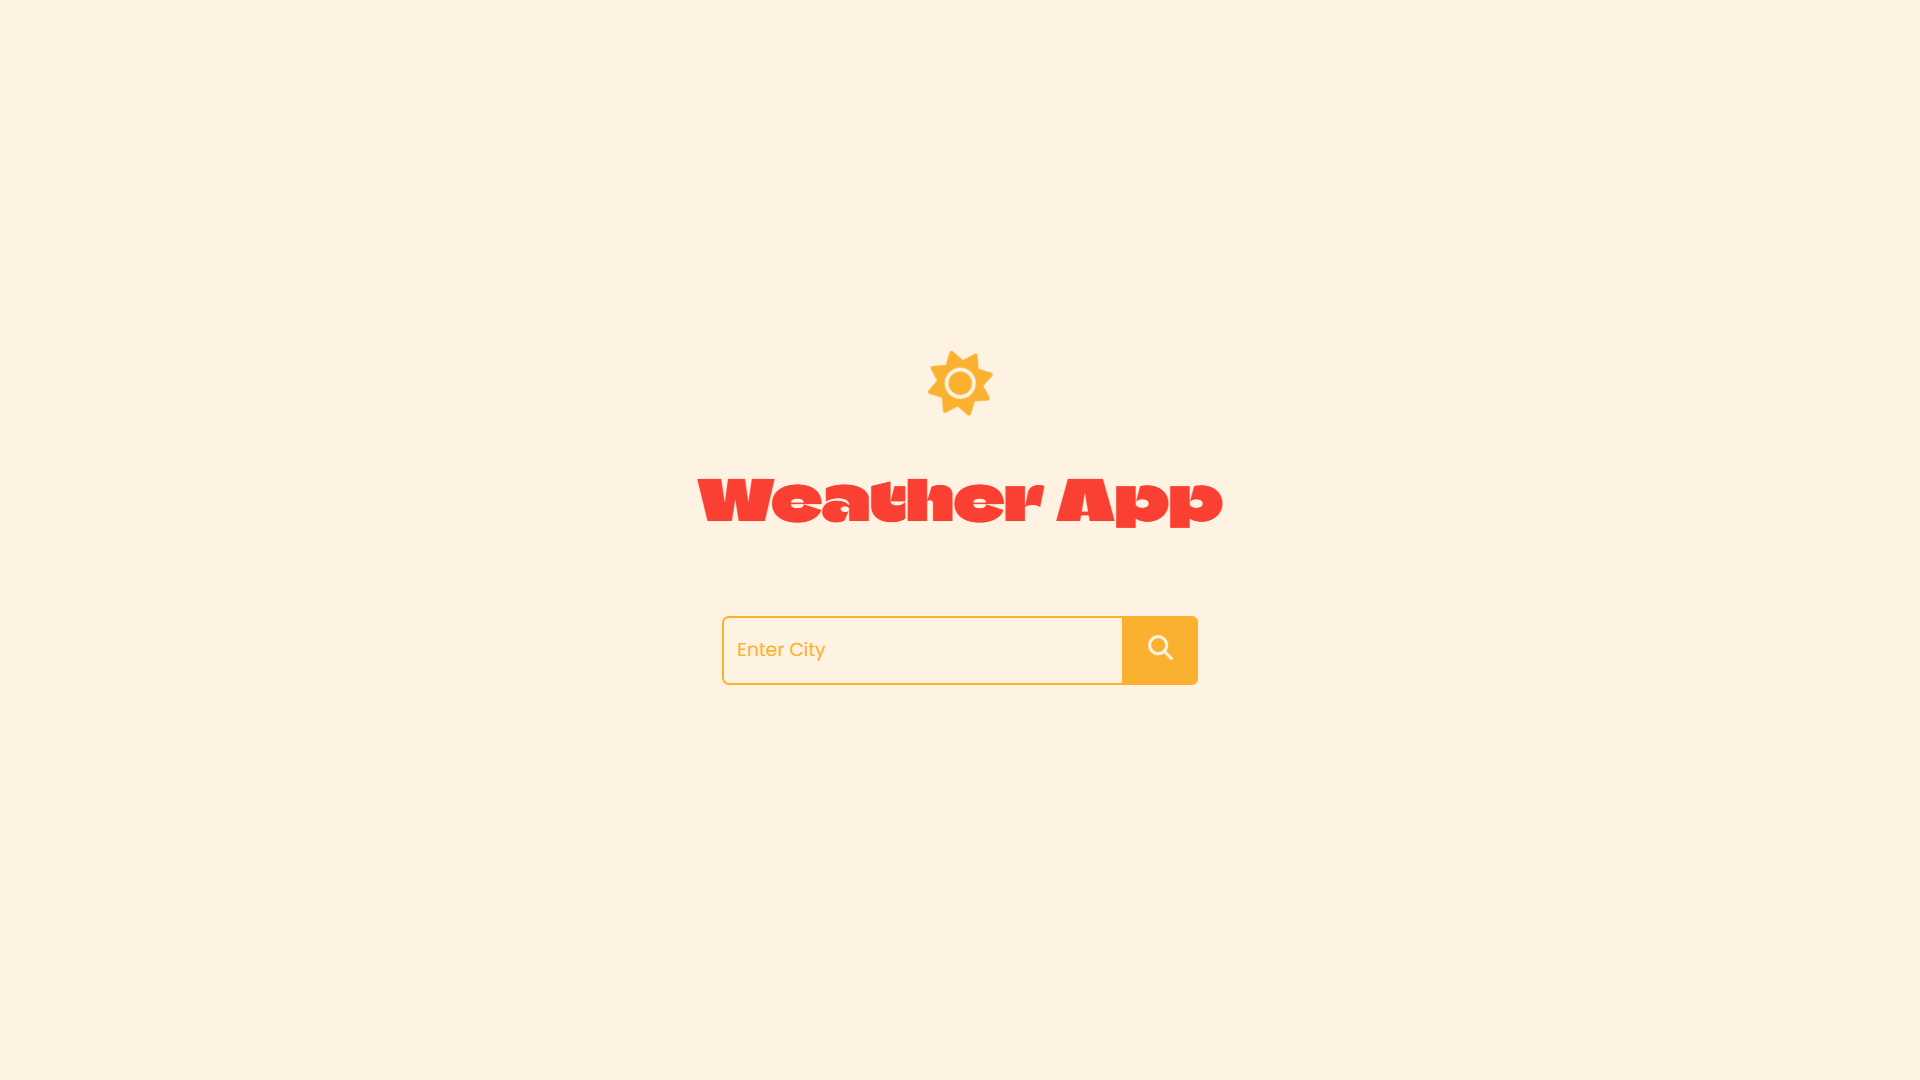
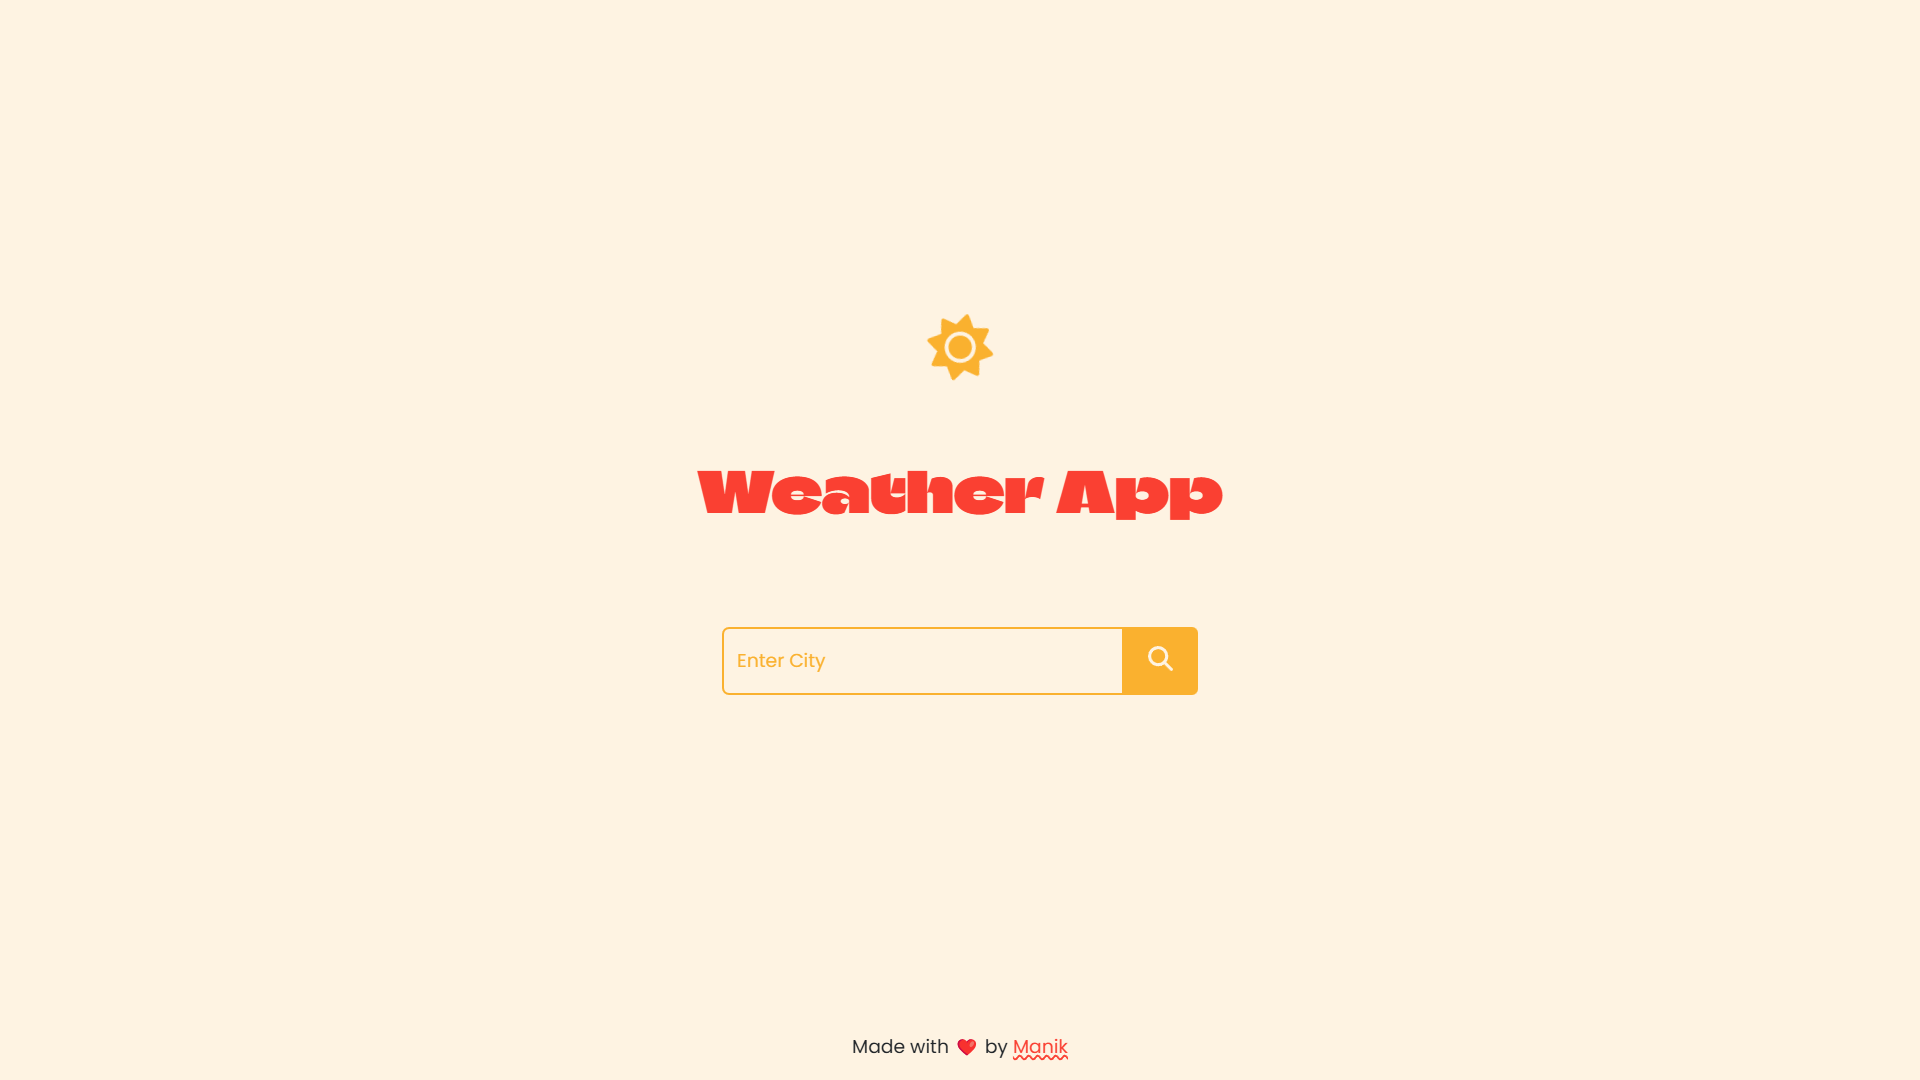
UI enhancement

diff --git a/components/SunriseSunset.jsx b/components/SunriseSunset.jsx
@@ -1,0 +1,224 @@
+import React from "react";
+import { Line } from "react-chartjs-2";
+import {
+  Chart as ChartJS,
+  CategoryScale,
+  LinearScale,
+  PointElement,
+  LineElement,
+  Title,
+  Tooltip,
+  Legend,
+} from "chart.js";
+import ChartAnnotation from "chartjs-plugin-annotation";
+
+ChartJS.register(
+  CategoryScale,
+  LinearScale,
+  PointElement,
+  LineElement,
+  Title,
+  Tooltip,
+  Legend,
+  ChartAnnotation
+);
+
+const SunriseSunset = ({ sunrise, sunset }) => {
+  const parseTimeToHours = (time) => {
+    const [hours, minutes, seconds] = time.split(":").map(Number);
+    return hours + minutes / 60 + seconds / 3600;
+  };
+
+  const sunriseHour = parseTimeToHours(sunrise);
+  const sunsetHour = parseTimeToHours(sunset);
+
+  const hours = [
+    0,
+    sunriseHour,
+    (sunriseHour + sunsetHour) / 2,
+    sunsetHour,
+    24,
+  ];
+
+  const dayNightData = hours.map((hour) => {
+    if (hour > sunriseHour && hour < sunsetHour) {
+      return 1;
+    } else if (hour === sunriseHour || hour === sunsetHour) {
+      return 0;
+    } else {
+      return -1;
+    }
+  });
+
+  const graphColor = "rgba(250, 64, 50, 0.8)";
+  const sunriseSunsetColor = "#fab12f";
+
+  const unifiedData = hours.map((hour) =>
+    hour > sunriseHour && hour < sunsetHour
+      ? 0.5
+      : hour === sunriseHour || hour === sunsetHour
+      ? 0
+      : -0.25
+  );
+
+  const currentTime = new Date();
+  const currentHour = currentTime.getHours() + currentTime.getMinutes() / 60;
+
+  const data = {
+    labels: hours.map((h) => sunrise),
+    datasets: [
+      {
+        label: "Sunlight & Night",
+        data: unifiedData,
+        borderColor: graphColor,
+        backgroundColor: "transparent",
+        fill: true,
+        tension: 0.4,
+        pointRadius: 0,
+      },
+      {
+        label: "Sunrise",
+        data: [null, 0, null, null, null],
+        borderColor: sunriseSunsetColor,
+        backgroundColor: sunriseSunsetColor,
+        pointRadius: 8,
+        pointStyle: "circle",
+        fill: false,
+        showLine: false,
+      },
+      {
+        label: "Sunset",
+        data: [null, null, null, 0, null],
+        borderColor: sunriseSunsetColor,
+        backgroundColor: sunriseSunsetColor,
+        pointRadius: 8,
+        pointStyle: "circle",
+        fill: false,
+        showLine: false,
+      },
+      {
+        label: "Current Time",
+        data: Array(24)
+          .fill(null)
+          .map((_, index) => (index === Math.floor(currentHour) ? 1 : null)),
+        backgroundColor: "red",
+        borderColor: "red",
+        pointRadius: 6,
+        pointStyle: "circle",
+        fill: false,
+        showLine: true,
+        tension: 0.4,
+      },
+    ],
+  };
+
+  const options = {
+    responsive: true,
+    plugins: {
+      legend: { display: false },
+      annotation: {
+        annotations: [
+          {
+            type: "line",
+            scaleID: "y",
+            value: 0,
+            borderColor: "black",
+            borderWidth: 2,
+            label: {
+              display: false,
+            },
+          },
+
+          {
+            type: "box",
+            xMin: sunriseHour,
+            xMax: sunsetHour,
+            backgroundColor: "rgba(255, 255, 0, 0.2)",
+            borderColor: "#fab12f",
+            borderWidth: 1,
+            label: {
+              content: "Day",
+              position: "center",
+              font: {
+                size: 16,
+                weight: "bold",
+              },
+              backgroundColor: "#fab12f",
+              color: "black",
+            },
+          },
+          {
+            type: "label",
+            xValue: sunriseHour,
+            yValue: 0,
+            backgroundColor: "#fab12f",
+            borderRadius: 10,
+            content: `Sunrise: ${sunrise}`,
+            font: {
+              size: 12,
+            },
+            color: "black",
+          },
+          {
+            type: "label",
+            xValue: sunsetHour,
+            yValue: 0,
+            backgroundColor: "orange",
+            borderRadius: 10,
+            content: `Sunset: ${sunset}`,
+            font: {
+              size: 12,
+            },
+            color: "black",
+          },
+        ],
+      },
+    },
+    scales: {
+      x: {
+        ticks: {
+          display: false,
+        },
+        grid: {
+          display: false,
+        },
+        border: {
+          display: false,
+        },
+      },
+      y: {
+        ticks: {
+          display: false,
+        },
+        grid: {
+          display: false,
+        },
+        border: {
+          display: false,
+        },
+      },
+    },
+    elements: {
+      line: {
+        borderWidth: 2,
+      },
+    },
+  };
+
+  return (
+    <div className="container">
+      <div className="row justify-content-center">
+        <div className="col-12 col-md-10 col-lg-8">
+          <div
+            className="chart-container"
+            style={{ maxWidth: "100%", margin: "0 auto" }}
+          >
+            <Line data={data} options={options} />
+          </div>
+        </div>
+      </div>
+    </div>
+  );
+};
+
+export default SunriseSunset;

diff --git a/components/Temperature.jsx b/components/Temperature.jsx
@@ -1,6 +1,7 @@
 import { useState } from "react";
 import { FontAwesomeIcon } from "@fortawesome/react-fontawesome";
 import { faToggleOn, faToggleOff } from "@fortawesome/free-solid-svg-icons";
+import SunriseSunset from "./SunriseSunset";
 
 export default function Temperature({ data }) {
   if (data.error) {
@@ -16,11 +17,16 @@ export default function Temperature({ data }) {
   const condition = data.weather[0].description;
   const sunrise = new Date(data.sys.sunrise * 1000).toLocaleTimeString();
   const sunset = new Date(data.sys.sunset * 1000).toLocaleTimeString();
+  const pressure = data.main.pressure;
+  const humidity = data.main.humidity;
   const icon = data.weather[0].icon;
+
+  const toggleUnit = () =>
+    setUnit(unit === "celsius" ? "fahrenheit" : "celsius");
 
   return (
     <div className="temperature">
-      <h1>
+      <h1 className="city">
         {data.name} - {data.sys.country}
       </h1>
       <h2>
@@ -34,14 +40,14 @@ export default function Temperature({ data }) {
         {unit === "celsius"
           ? tempCelsius.toFixed(1)
           : tempFahrenheit.toFixed(1)}
-        <span>{unit === "celsius" ? "°C" : "°F"}</span>
+        <span>{unit === "celsius" ? "°C " : "°F "}</span>
         <span
           style={{ cursor: "pointer", marginLeft: "8px" }}
-          onClick={() => setUnit(unit === "celsius" ? "fahrenheit" : "celsius")}
+          onClick={toggleUnit}
         >
           <FontAwesomeIcon
             icon={unit === "celsius" ? faToggleOff : faToggleOn}
-            style={{ marginLeft: "8px", color: "#fa4032" }}
+            className="toggle-unit-icon"
           />
         </span>
       </h1>
@@ -52,8 +58,33 @@ export default function Temperature({ data }) {
           : feelsLikeFahrenheit.toFixed(1)}
         <span>{unit === "celsius" ? "°C" : "°F"}</span>
       </h2>
+      <SunriseSunset sunrise={sunrise} sunset={sunset} />
       <h3>
-        Sunrise: {sunrise} - Sunset: {sunset}
+        <svg
+          xmlns="http://www.w3.org/2000/svg"
+          width="32"
+          height="32"
+          fill="#fab12f"
+          className="bi bi-sunrise"
+          viewBox="0 0 16 16"
+        >
+          <path d="M7.646 1.146a.5.5 0 0 1 .708 0l1.5 1.5a.5.5 0 0 1-.708.708L8.5 2.707V4.5a.5.5 0 0 1-1 0V2.707l-.646.647a.5.5 0 1 1-.708-.708zM2.343 4.343a.5.5 0 0 1 .707 0l1.414 1.414a.5.5 0 0 1-.707.707L2.343 5.05a.5.5 0 0 1 0-.707m11.314 0a.5.5 0 0 1 0 .707l-1.414 1.414a.5.5 0 1 1-.707-.707l1.414-1.414a.5.5 0 0 1 .707 0M8 7a3 3 0 0 1 2.599 4.5H5.4A3 3 0 0 1 8 7m3.71 4.5a4 4 0 1 0-7.418 0H.499a.5.5 0 0 0 0 1h15a.5.5 0 0 0 0-1h-3.79zM0 10a.5.5 0 0 1 .5-.5h2a.5.5 0 0 1 0 1h-2A.5.5 0 0 1 0 10m13 0a.5.5 0 0 1 .5-.5h2a.5.5 0 0 1 0 1h-2a.5.5 0 0 1-.5-.5" />
+        </svg>{" "}
+        {sunrise} -{" "}
+        <svg
+          xmlns="http://www.w3.org/2000/svg"
+          width="32"
+          height="32"
+          fill="#fa4032"
+          className="bi bi-sunset"
+          viewBox="0 0 16 16"
+        >
+          <path d="M7.646 4.854a.5.5 0 0 0 .708 0l1.5-1.5a.5.5 0 0 0-.708-.708l-.646.647V1.5a.5.5 0 0 0-1 0v1.793l-.646-.647a.5.5 0 1 0-.708.708zm-5.303-.51a.5.5 0 0 1 .707 0l1.414 1.413a.5.5 0 0 1-.707.707L2.343 5.05a.5.5 0 0 1 0-.707zm11.314 0a.5.5 0 0 1 0 .706l-1.414 1.414a.5.5 0 1 1-.707-.707l1.414-1.414a.5.5 0 0 1 .707 0zM8 7a3 3 0 0 1 2.599 4.5H5.4A3 3 0 0 1 8 7m3.71 4.5a4 4 0 1 0-7.418 0H.499a.5.5 0 0 0 0 1h15a.5.5 0 0 0 0-1h-3.79zM0 10a.5.5 0 0 1 .5-.5h2a.5.5 0 0 1 0 1h-2A.5.5 0 0 1 0 10m13 0a.5.5 0 0 1 .5-.5h2a.5.5 0 0 1 0 1h-2a.5.5 0 0 1-.5-.5" />
+        </svg>{" "}
+        {sunset}
+      </h3>
+      <h3>
+        Pressure: {pressure} hPa | Humidity: {humidity}%
       </h3>
     </div>
   );

diff --git a/src/App.jsx b/src/App.jsx
@@ -6,14 +6,22 @@ import CityForm from "../components/CityForm";
 function App() {
   return (
     <>
-      <div className="center">
-        <FontAwesomeIcon
-          icon={faSun}
-          spin
-          style={{ color: "#fab12f", fontSize: "50px" }}
-        />
-        <h1 className="title">Weather App</h1>
-        <CityForm />
+      <div
+        className="d-flex justify-content-center align-items-center"
+        style={{ minHeight: "100vh" }}
+      >
+        <div
+          className="text-center main-div"
+          style={{ width: "100%", maxWidth: "500px" }}
+        >
+          <FontAwesomeIcon
+            icon={faSun}
+            spin
+            style={{ color: "#fab12f", fontSize: "50px" }}
+          />
+          <h1 className="title my-4">Weather App</h1>
+          <CityForm />
+        </div>
       </div>
     </>
   );

diff --git a/src/App.css b/src/App.css
@@ -1,17 +1,17 @@
 body {
   background-color: #fef3e2;
-  display: flex;
-  justify-content: center;
-  align-items: center;
-  height: 100vh;
   margin: 0;
   font-family: "Poppins", sans-serif;
   font-weight: 400;
-  font-style: normal;
+  display: flex;
+  justify-content: center;
+  align-items: center;
+  height: 100%;
+  align-items: center;
 }
 
-.center {
-  text-align: center;
+.main-div {
+  padding: 20px 0 40px 0;
 }
 
 .title {
@@ -24,8 +24,21 @@ h1 {
   font-weight: 400;
   font-style: normal;
   color: #fa4032;
-  font-size: 3rem;
+  font-size: 3rem; 
 }
+
+@media (max-width: 768px) {
+  h1 {
+    font-size: 2.5rem;  
+  }
+}
+
+@media (max-width: 480px) {
+  h1 {
+    font-size: 2rem;
+  }
+}
+
 
 form {
   padding: 20px;

diff --git a/index.html b/index.html
@@ -20,6 +20,12 @@
 
 <body>
     <div id="root"></div>
+    <!-- Footer Section -->
+    <footer class="text-center fixed-bottom wavy-footer">
+        <p>Made with ❤ by <a href="https://www.linkedin.com/in/maniksheoran/" style="color: #fa4032; text-decoration: underline; text-decoration-style: wavy; text-decoration-color: #fa4032;">Manik</a></p>
+    </footer>
+
+
 
     <!-- Bootstrap JS -->
     <script src="https://cdn.jsdelivr.net/npm/bootstrap@5.3.0-alpha3/dist/js/bootstrap.bundle.min.js" integrity="sha384-ENjdO4Dr2bkBIFxQpeoBkHrw/I3xGxKf5MEz1zZEdUI+3cFO2zVe9smCmyo87CxZ" crossorigin="anonymous"></script>
